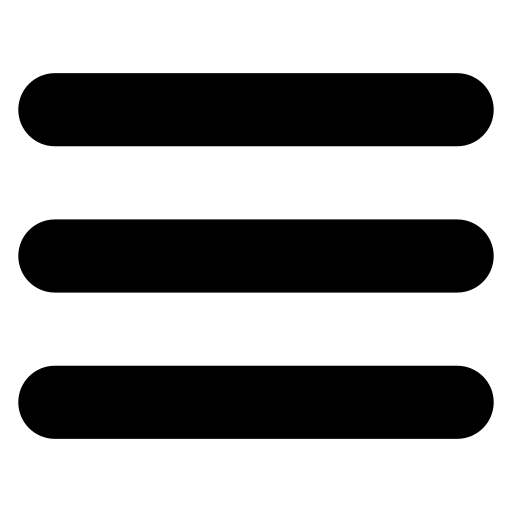
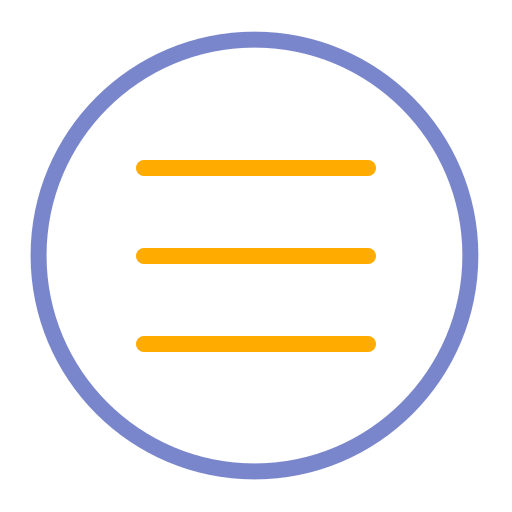
nav links view

diff --git a/public/style.css b/public/style.css
@@ -202,12 +202,21 @@ form textarea {
   color: beige;
 }
 
-button {
-  background-color: #4caf50;
+.submit-button {
+  background-color: #808ba5;
   color: #fff;
   padding: 12px 20px;
   border: none;
   border-radius: 60px;
+  cursor: pointer;
+  transition: background-color 0.3s ease;
+}
+
+#menu-open,#menu-close {
+  background-color:#2c2155;
+  color: #fff;
+ 
+  border: none;
   cursor: pointer;
   transition: background-color 0.3s ease;
 }
@@ -231,8 +240,8 @@ footer {
 }
 
 .hamburger-icon{
-  width: 20px;
-  height: 20px;
+  width: 40px;
+  height: 40px;
   padding: 20px;
 }
 
@@ -240,6 +249,13 @@ footer {
   #nav-form {
     display: block;
   }
+
+  .navbar-links a{
+    display: block;
+    padding: 15px;
+    position: relative;
+  }
+
 .open {
   display: block;
 }

diff --git a/public/index.html b/public/index.html
@@ -141,7 +141,7 @@
             required
           ></textarea
           ><br />
-          <button type="submit">Send Message</button>
+          <button type="submit" class="submit-button">Send Message</button>
         </form>
         <p id="success-message"></p>
       </section>
